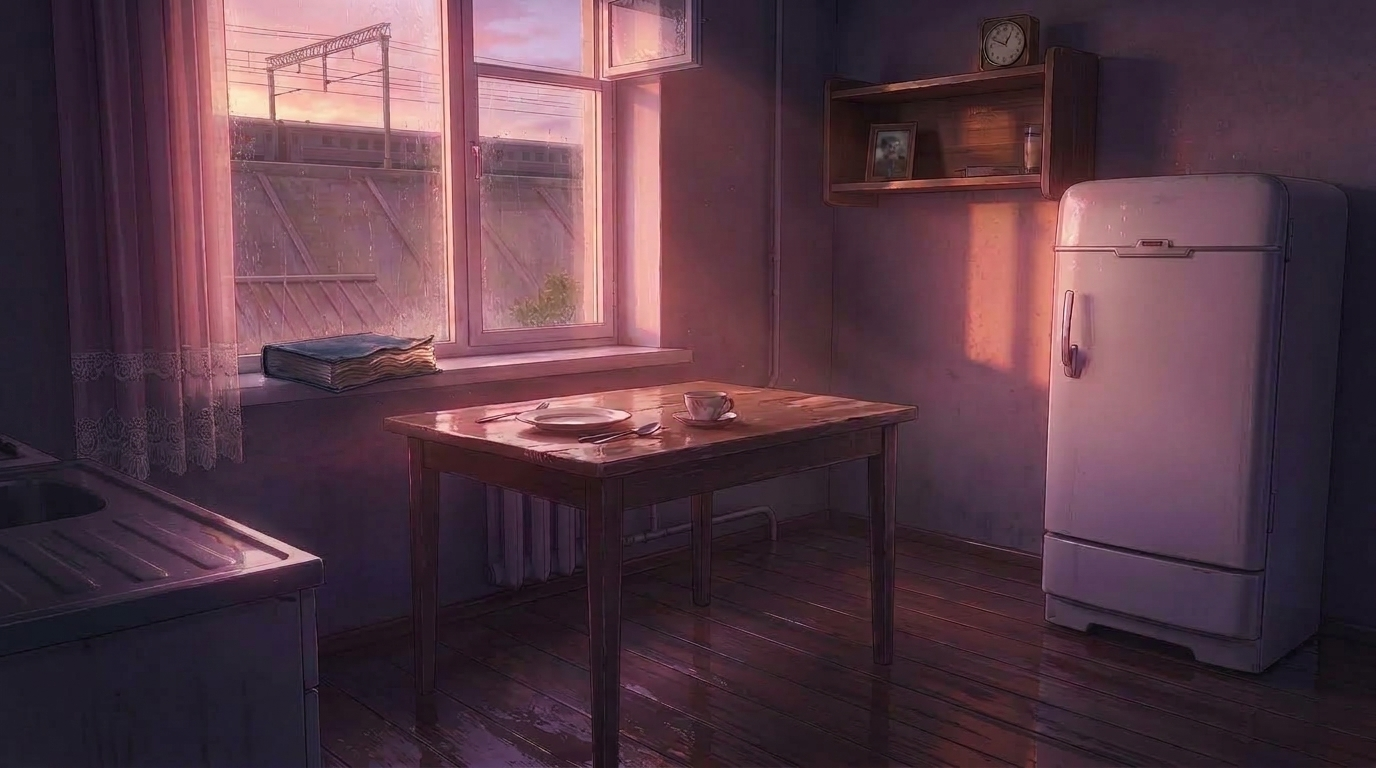
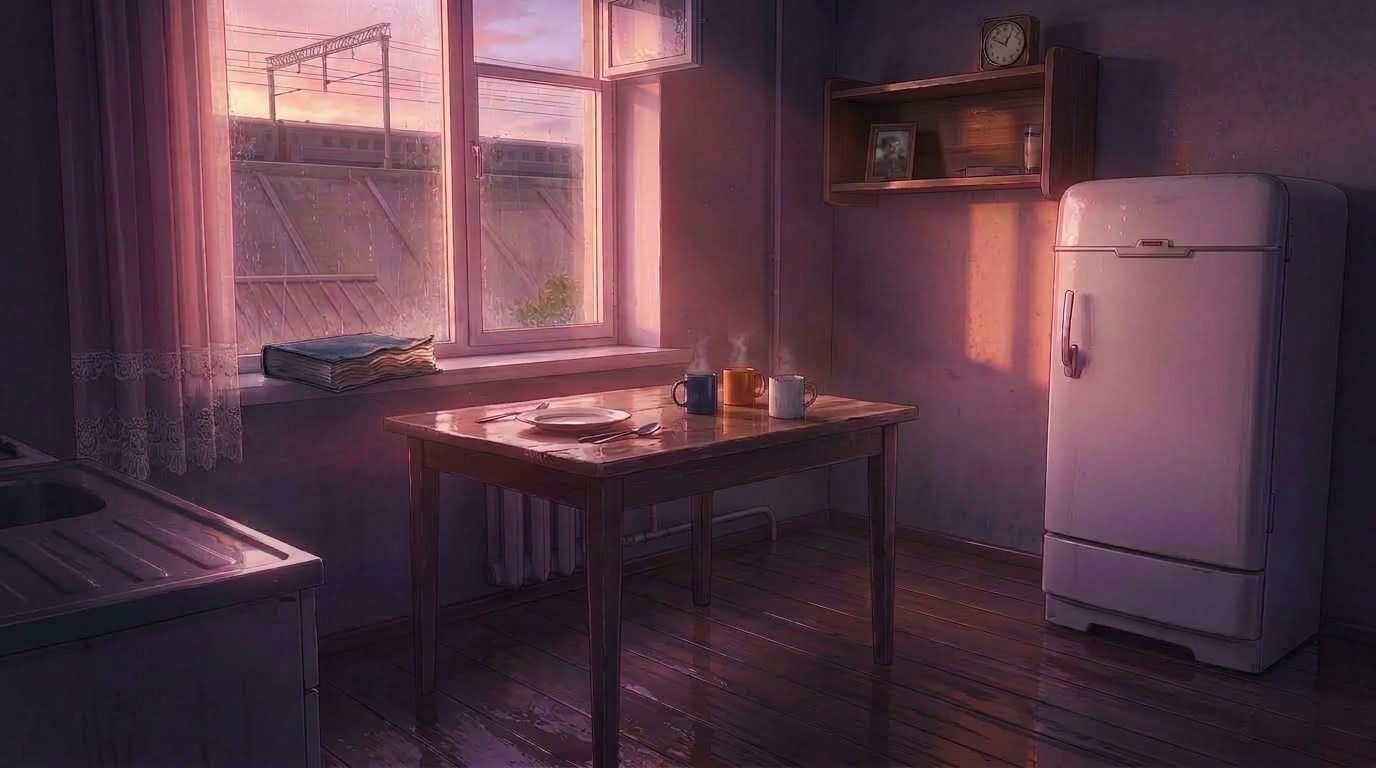
Кухня «Приходи»: три кружки на общем плане, новая открытка
- на столе три кружки, как в сюжете и на крупном плане (правка только столешницы)
- зона стола захватывает кружки, реплика стола про три кружки
- Верина кружка везде одна и та же: белая, со сколотым краем
- открытка: вокруг естественные потёртые обложки вместо размытых пятен

Changed region(s): [[0.4688, 0.4375, 0.625, 0.5938]]

diff --git a/src/scenes/kitchen.js b/src/scenes/kitchen.js
@@ -272,7 +272,7 @@ const LOOK = {
     }],
     fridge: ['Холодильник', 'letters', ['Детский алфавит. Мама вешала буквы, чтобы я учил слова.', 'Первое слово, которое я сложил сам, было «ВЕРА».']],
     lamp: ['Лампа', 'lamp', ['Лампу на кухне не выключают. Мама говорит — чтобы не споткнуться.', 'По-моему, чтобы дом не казался пустым.']],
-    mug: ['Кружка', 'table', ['Верина кружка с отбитой ручкой. Мама ставит её на стол по привычке.', 'Из неё никто не пьёт.']],
+    mug: ['Кружка', 'table', ['Верина белая кружка со сколотым краем. Мама ставит её на стол по привычке.', 'Из неё никто не пьёт.']],
     letter: ['Письмо', 'table', ['Письмо из Петербурга. Обратный адрес — реставрационная мастерская.', 'Мама его не открыла. Неделю перекладывает с места на место.']],
     clock: ['Часы', 'clock', {
       night: ['Часы спешат на три минуты. Сколько себя помню.', 'Всё в этом доме или спешит, или опаздывает.'],
@@ -286,7 +286,7 @@ const LOOK = {
   },
   p: {
     window: ['Окно', 'window', ['Дождь. Стекло в каплях. Здесь, кажется, всегда только что прошёл дождь.', 'Та же насыпь, те же провода. Папину электричку слышно и сквозь дождь.']],
-    table: ['Стол', 'table', ['Чашка на блюдце, на дне — кофе. Здесь кто-то варит кофе по утрам.', 'У нас его не варят с тех пор, как Вера уехала.']],
+    table: ['Стол', 'table', ['Три кружки, ещё тёплые. У белой сколот край — Верина. Здесь из неё пьют.', 'Здесь кто-то варит кофе по утрам. У нас его не варят с тех пор, как Вера уехала.']],
     fridge: ['Холодильник', 'fridge', ['«УХОДИ». Так и висит — он не стал снимать.', 'Остальные буквы вразнобой. Слов из них здесь давно никто не складывал.']],
     sink: ['Раковина, хлебница', 'sink', ['Кран обмотан изолентой. Капает всё равно — раз в четыре секунды. Готовый хай-хэт.', 'Рядом хлебница. Крышка перекошена, будто её вечно захлопывают на бегу.']],
     book: ['Книга', 'window', ['Книга Веры. «Опыты с водой и светом». Страницы вздулись от воды.', 'Лежит здесь с того самого утра. Никто её не убирает.']],
@@ -318,7 +318,7 @@ function hotspots(world, time) {
     : {
       window: B.rect(228, 0, 690, 370),
       sink: B.rect(0, 440, 320, 768),
-      table: B.rect(385, 385, 915, 470),
+      table: B.rect(385, 355, 915, 470),
       fridge: B.rect(1045, 175, 1345, 670),
       book: B.rect(250, 330, 440, 396),
       clock: B.circle(1008, 40, 28),

diff --git a/story/chapters/chapter6.js b/story/chapters/chapter6.js
@@ -122,7 +122,7 @@ export default {
       if (id === 'note') return { key: 'ch6', lines: ['«Я на смене до утра. Ужин в холодильнике». Здесь мама пишет записки. Моя просто кричит из коридора.'] };
       if (id === 'photo') return { key: 'ch6', lines: ['То самое фото. Здесь оно такое же. Единственное, что здесь такое же.'] };
       if (id === 'fridge') return { key: 'ch6', lines: ['Буквы висят на своих местах. Мой алфавит — у нас на нём до сих пор «УХОДИ».'] };
-      if (id === 'mug') return { key: 'ch6', lines: ['Верина кружка с отбитой ручкой. Здесь из неё никто не пьёт.', 'У нас Вера пьёт из неё кофе каждое утро. Ручку я так и не приклеил.'] };
+      if (id === 'mug') return { key: 'ch6', lines: ['Верина белая кружка со сколотым краем. Здесь из неё никто не пьёт.', 'У нас Вера пьёт из неё кофе каждое утро. Ручку я так и не приклеил.'] };
       if (id === 'sill') return { key: 'ch6', lines: ['Книга лежит криво. Это у нас её за ужином двигали. А тут она гладкая — ни одной волны от воды.'] };
     }
 
